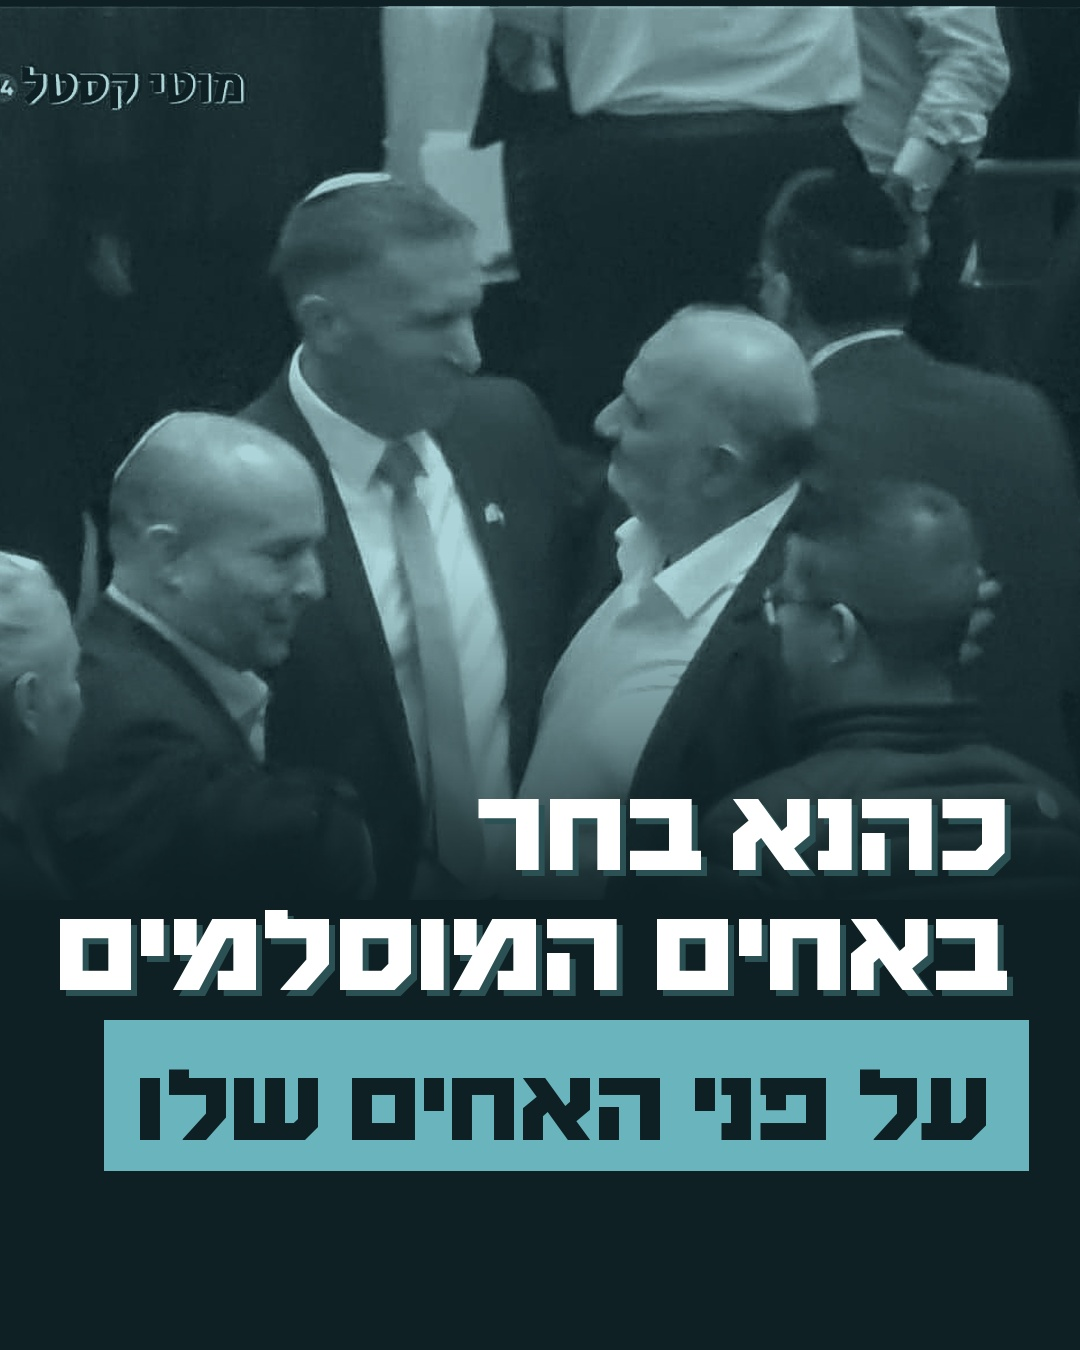
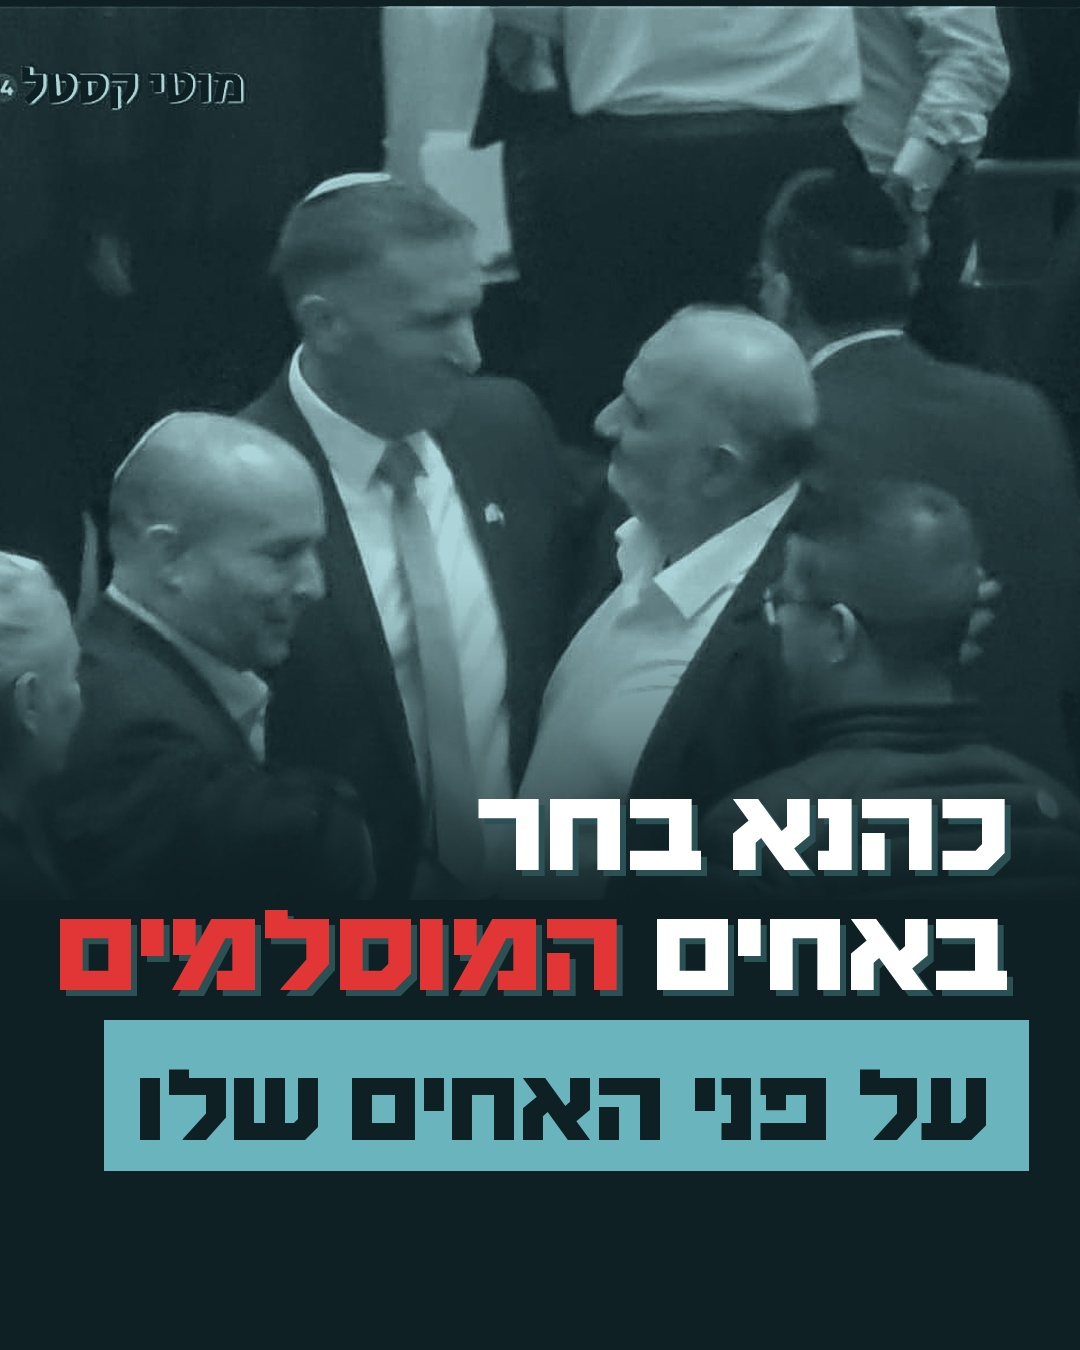
RZ brothers post: red highlight
Claude-Session: https://claude.ai/code/session_01RS3QK6pAd3YhyAuXZSJjH1

Changed region(s): [[0.0306, 0.6533, 0.5806, 0.7467]]

diff --git a/content-kit/hatzionut-hadatit/2026-11-post-kahana-brothers/make.py b/content-kit/hatzionut-hadatit/2026-11-post-kahana-brothers/make.py
@@ -14,8 +14,12 @@ ov = Image.new('RGBA', (W, H)); od = ImageDraw.Draw(ov)
 for y in range(H): od.line((0, y, W, y), fill=NIGHT + (int(255 * min(1, max(0, (y - 560) / 360)) ** 1.2),))
 im.alpha_composite(ov); d = ImageDraw.Draw(im); R = W - 70
 fh = F(118); y = 870
-for i, l in enumerate(['כהנא בחר', 'באחים המוסלמים']):
-    yy = y + i * 120; d.text((R + 6, yy + 6), l, font=fh, fill=DEEP, anchor='rs', direction='rtl'); d.text((R, yy), l, font=fh, fill=(255, 255, 255), anchor='rs', direction='rtl')
+RED = (226, 54, 54)
+def seg(x, yy, t, col):
+    d.text((x + 6, yy + 6), t, font=fh, fill=DEEP, anchor='rs', direction='rtl'); d.text((x, yy), t, font=fh, fill=col, anchor='rs', direction='rtl')
+    return x - d.textlength(t, font=fh, direction='rtl')
+seg(R, y, 'כהנא בחר', (255, 255, 255))
+x = seg(R, y + 120, 'באחים ', (255, 255, 255)); seg(x, y + 120, 'המוסלמים', RED)
 t = 'על פני האחים שלו'; fb = F(104); tw = d.textlength(t, font=fb, direction='rtl'); yb = y + 150
 d.rectangle((R - tw - 50, yb, R + 18, yb + 150), fill=LT); d.text((R - 20, yb + 120), t, font=fb, fill=NIGHT, anchor='rs', direction='rtl')
 im.convert('RGB').save(HERE + '/post.jpg', quality=95); print(tw, d.textlength('באחים המוסלמים', font=fh, direction='rtl'))
